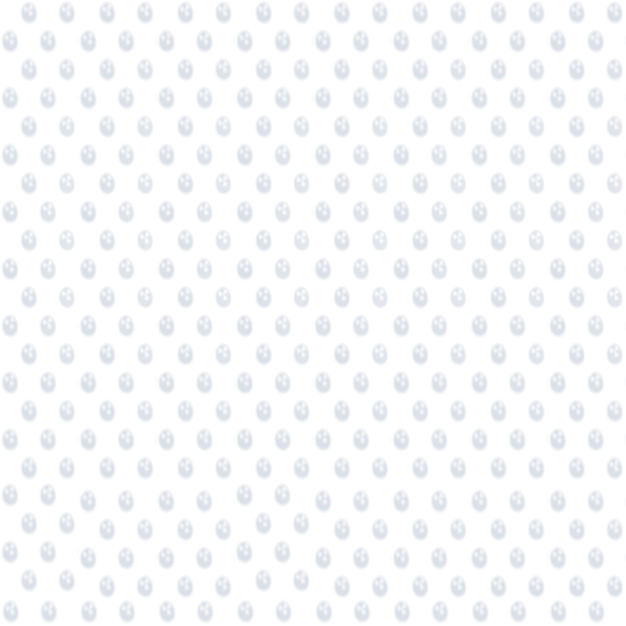
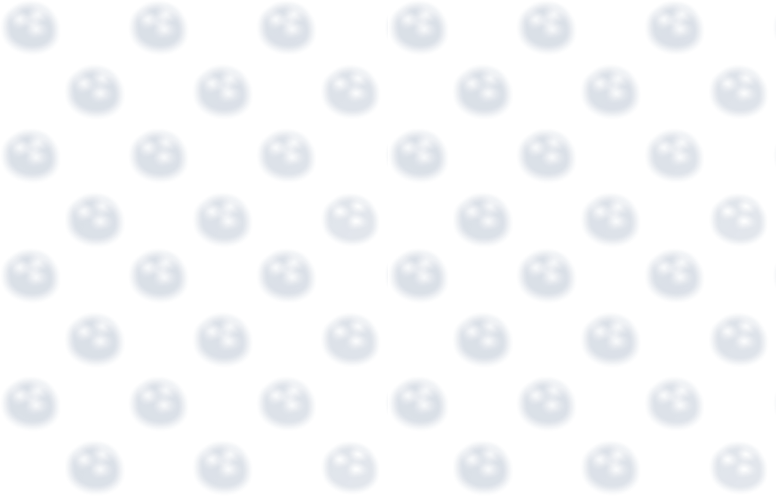
123

diff --git a/sites/test2/style/style.scss b/sites/test2/style/style.scss
@@ -129,7 +129,7 @@ button {
 }
 @keyframes movingBackground {
     from { background-position: 0 0;}
-    to {background-position: 800px 800px;}
+    to { background-position: -800px 800px; }
   }
 .wrapper {
     background: linear-gradient(180deg, rgba(39,119,233,1) 0%, rgba(0,65,153,1) 100%);
@@ -141,7 +141,7 @@ button {
         background-size: 800px;
         display: grid;
         place-items: center;
-        animation: movingBackground 10s linear infinite;
+        animation: movingBackground 30s linear infinite;
 
 
         padding: 4.25rem 0 3rem;

diff --git a/sites/test2/style/style.css b/sites/test2/style/style.css
@@ -127,7 +127,7 @@ button {
     background-position: 0 0;
   }
   to {
-    background-position: 800px 800px;
+    background-position: -800px 800px;
   }
 }
 .wrapper {
@@ -139,7 +139,7 @@ button {
   background-size: 800px;
   display: grid;
   place-items: center;
-  animation: movingBackground 10s linear infinite;
+  animation: movingBackground 30s linear infinite;
   padding: 4.25rem 0 3rem;
   width: 100%;
   position: relative;
